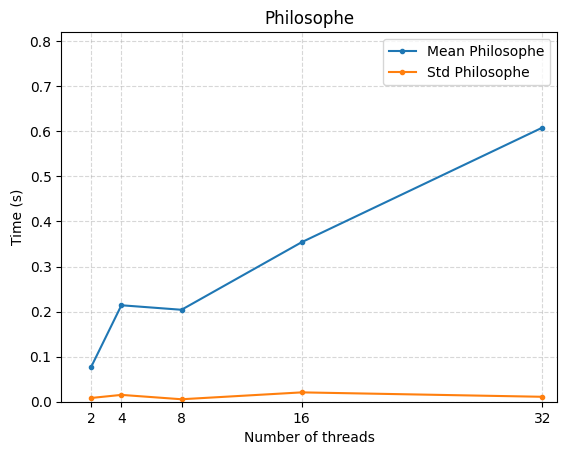
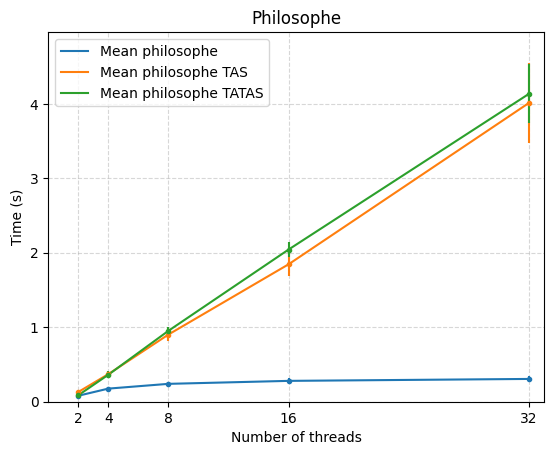
Finished plot

diff --git a/plot.py b/plot.py
@@ -3,76 +3,62 @@ import numpy as np
 import pandas as pd
 
 
-num_threads = np.array([2, 4, 8, 16, 32])
 
-data_philosophe = pd.read_csv('csv/philosophe.csv', header=0)
-data_prodcons = pd.read_csv('csv/prodcons.csv', header=0)
-data_readerwriter = pd.read_csv('csv/readerwriter.csv', header=0)
+def plot(plots: list[tuple], num_threads, title, export=False, filename=None, export_type='png', show=True):
+    y_max = 0
+    for data, label in plots:
+        line, = plt.plot(num_threads, data.mean(), label="Mean " + label)
+        plt.errorbar(num_threads, data.mean(), yerr=data.std(), fmt='.', color=line.get_color())
+        if data.mean().max() >= y_max: y_max = data.mean().max()
 
-mean_philosophe = data_philosophe.mean()
-mean_prodcons = data_prodcons.mean()
-mean_readerwriter = data_readerwriter.mean()
-
-std_philosophe = data_philosophe.std()
-std_prodcons = data_prodcons.std()
-std_readerwriter = data_readerwriter.std()
-
-
-def plot(data, num_threads, title, export=False, filename=None, export_type='png', show=True):
-    plt.plot(num_threads, data.mean(), marker='.', label="Mean " + title)
-    plt.plot(num_threads, data.std(), marker='.', label="Std " + title)
     plt.xticks(num_threads)
     plt.xlabel('Number of threads')
     plt.ylabel('Time (s)')
     plt.xlim(0, num_threads.max() + 1)
-    plt.ylim(0, data.max().max() + 0.2)
+    plt.ylim(0, y_max + 0.2*y_max)
     plt.title(title)
     plt.legend()
     plt.grid(linestyle='--', alpha=0.5)
 
     if export:
-        plt.savefig(filename, format=export_type, bbox_inches='tight')
+        plt.savefig("graphs/" + filename + "." + export_type, format=export_type, bbox_inches='tight')
 
     if show:
         plt.show()
 
 
+num_threads = np.array([2, 4, 8, 16, 32])
+
+data_philosophe = pd.read_csv('csv/philosophe.csv', header=0)
+data_philosophe_tas = pd.read_csv('csv/philosophe_tas.csv', header=0)
+data_philosophe_tatas = pd.read_csv('csv/philosophe_tatas.csv', header=0)
+
+data_prodcons = pd.read_csv('csv/prodcons.csv', header=0)
+data_prodcons_tas = pd.read_csv('csv/prodcons_tas.csv', header=0)
+data_prodcons_tatas = pd.read_csv('csv/prodcons_tatas.csv', header=0)
+
+data_readerwriter = pd.read_csv('csv/readerwriter.csv', header=0)
+data_readerwriter_tas = pd.read_csv('csv/readerwriter_tas.csv', header=0)
+data_readerwriter_tatas = pd.read_csv('csv/readerwriter_tatas.csv', header=0)
+
 # Philosophe
-plot(data_philosophe, num_threads, "Philosophe")
+plot([(data_philosophe, "philosophe"), (data_philosophe_tas, "philosophe TAS"), (data_philosophe_tatas, "philosophe TATAS")], 
+     num_threads, "Philosophe", export=True, filename="philosophe", show=True)
 
 # ProdCons
-plot(data_prodcons, num_threads, "ProdCons")
+plot([(data_prodcons, "prod./cons."), (data_prodcons_tas, "prod./cons. TAS"), (data_prodcons_tatas, "prod./cons. TATAS")], 
+     num_threads, "Producer / Consumer", export=True, filename="prodcons", show=True)
 
 # ReaderWriter
-plot(data_readerwriter, num_threads, "ReaderWriter")
+plot([(data_readerwriter, "reader/writer"), (data_readerwriter_tas, "reader/writer TAS"), (data_readerwriter_tatas, "reader/writer TATAS")], 
+     num_threads, "Reader / Writer", export=True, filename="readerwriter", show=True)
 
 
-# Second part
+## TAS & TATAS Performance
+num_threads = np.array([1, 2, 4, 8, 16, 32])
 
 data_tas = pd.read_csv('csv/test_and_set_perf.csv', header=0)
 data_tatas = pd.read_csv('csv/test_and_test_and_set_perf.csv', header=0)
 
-mean_tas = data_tas.mean()
-mean_tatas = data_tatas.mean()
-
-std_tas = data_tas.std()
-std_tatas = data_tatas.std()
-
-num_threads = np.array([1, 2, 4, 8, 16, 32])
-
-# Test and Set vs. Test and Test and Set
-plt.plot(num_threads, mean_tas, marker='.', label="Mean test_and_set")
-plt.plot(num_threads, std_tas, marker='.', label="Std test_and_set")
-
-plt.plot(num_threads, mean_tatas, marker='.', label="Mean test_and_test_and_set")
-plt.plot(num_threads, std_tatas, marker='.', label="Std test_and_test_and_set")
-
-plt.xticks(num_threads)
-plt.xlabel('Number of threads')
-plt.ylabel('Time (s)')
-plt.xlim(0, num_threads.max() + 1)
-plt.ylim(0, max(data_tas.max().max(), data_tatas.max().max()) + 0.2)
-plt.title("Test and Set Vs. Test and Test and Set")
-plt.legend()
-plt.grid(linestyle='--', alpha=0.5)
-plt.show()
+plot([(data_tas, "test & set"), (data_tatas, "test & test & set")], 
+     num_threads, "TAS Vs. TATAS", export=True, filename="tas_and_tatas", show=True)

diff --git a/src/readerwriter_tatas.c b/src/readerwriter_tatas.c
@@ -2,7 +2,7 @@
 #include "stdlib.h"
 #include "stdbool.h"
 #include "pthread.h"
-#include "../include/sem_tas.h"
+#include "../include/sem_tatas.h"
 #include "../include/test_and_set.h"
 #include "unistd.h"
 #include "getopt.h"
@@ -10,7 +10,7 @@
 #define NUM_WRITE 640
 #define NUM_READ 2540
 
-sem_tas_t db;   // Protects access to the database
+sem_tatas_t db;   // Protects access to the database
 Mutex_t mutex;  // Protects access to the readercount
 int readercount = 0;
 
@@ -19,43 +19,43 @@ int count_read = 0; // Number of reads done so far
 
 void writer(void) {
     while(true) {
-        sem_tas_wait(&db);
+        sem_tatas_wait(&db);
         // section critique
         if (count_write >= NUM_WRITE) {
-            sem_tas_post(&db);
+            sem_tatas_post(&db);
             break;
         }
         count_write++;
 
         for (int i=0; i<10000; i++); // Simulate a slow writer
-        sem_tas_post(&db);
+        sem_tatas_post(&db);
     }
 }
 
 void reader(void) {
     while(true) {
-        lock_TAS(&mutex);
+        lock_TATAS(&mutex);
         if (count_read >= NUM_READ) {
-            unlock_TAS(&mutex);
+            unlock_TATAS(&mutex);
             break;
         }
         count_read++;
 
         readercount++;
         if (readercount == 1) {
-            sem_tas_wait(&db);
+            sem_tatas_wait(&db);
         }
 
         for (int i=0; i<10000; i++); // Simulate a slow reader
-        unlock_TAS(&mutex);
+        unlock_TATAS(&mutex);
 
 
-        lock_TAS(&mutex);
+        lock_TATAS(&mutex);
         readercount--;
         if (readercount == 0) {
-            sem_tas_post(&db);
+            sem_tatas_post(&db);
         }
-        unlock_TAS(&mutex);
+        unlock_TATAS(&mutex);
     }
 }
 
@@ -83,7 +83,7 @@ int main(int argc, char **argv) {
     pthread_t threads[n_writer+n_reader];
     int err;
 
-    sem_tas_init(&db, 1);
+    sem_tatas_init(&db, 1);
     mutex = 0;
 
     for (int i = 0; i < n_writer; i++) {
@@ -106,7 +106,7 @@ int main(int argc, char **argv) {
         pthread_join(threads[i], NULL);
     }
 
-    sem_tas_destroy(&db);
+    sem_tatas_destroy(&db);
 
     return 0;
 }

diff --git a/src/sem_tatas.c b/src/sem_tatas.c
@@ -2,24 +2,32 @@
 
 void sem_tatas_init(sem_tatas_t* sem, int value) {
     sem->value = value;
-    sem->mutex_tatas = 0;
+    sem->mutex_tatas = malloc(sizeof(Mutex_t));
+    *(sem->mutex_tatas) = 0;
+}
+
+void sem_tatas_destroy(sem_tatas_t* sem) {
+    free(sem->mutex_tatas);
 }
 
 void sem_tatas_wait(sem_tatas_t* sem) {
-    lock_TATAS(&(sem->mutex_tatas));
-    sem->value--;
+    lock_TATAS(sem->mutex_tatas);
     int tmp = sem->value;
-    unlock_TATAS(&(sem->mutex_tatas));
+    unlock_TATAS(sem->mutex_tatas);
 
-    while (tmp <= 0) {
-        lock_TATAS(&(sem->mutex_tatas));
+    while (tmp == 0) {
+        lock_TATAS(sem->mutex_tatas);
         tmp = sem->value;
-        unlock_TATAS(&(sem->mutex_tatas));
+        unlock_TATAS(sem->mutex_tatas);
     }
+
+    lock_TATAS(sem->mutex_tatas);
+    sem->value--;
+    unlock_TATAS(sem->mutex_tatas);
 }
 
 void sem_tatas_post(sem_tatas_t* sem) {
-    lock_TATAS(&(sem->mutex_tatas));
+    lock_TATAS(sem->mutex_tatas);
     sem->value++;
-    unlock_TATAS(&(sem->mutex_tatas));
+    unlock_TATAS(sem->mutex_tatas);
 }

diff --git a/src/sem_tas.c b/src/sem_tas.c
@@ -3,24 +3,32 @@
 
 void sem_tas_init(sem_tas_t* sem, int value) {
     sem->value = value;
-    sem->mutex_tas = 0;
+    sem->mutex_tas = malloc(sizeof(Mutex_t));
+    *(sem->mutex_tas) = 0;
+}
+
+void sem_tas_destroy(sem_tas_t* sem) {
+    free(sem->mutex_tas);
 }
 
 void sem_tas_wait(sem_tas_t* sem) {
-    lock_TAS(&(sem->mutex_tas));
-    sem->value--;
+    lock_TAS(sem->mutex_tas);
     int tmp = sem->value;
-    unlock_TAS(&(sem->mutex_tas));
+    unlock_TAS(sem->mutex_tas);
 
-    while (tmp <= 0) {
-        lock_TAS(&(sem->mutex_tas));
+    while (tmp == 0) {
+        lock_TAS(sem->mutex_tas);
         tmp = sem->value;
-        unlock_TAS(&(sem->mutex_tas));
+        unlock_TAS(sem->mutex_tas);
     }
+
+    lock_TAS(sem->mutex_tas);
+    sem->value--;
+    unlock_TAS(sem->mutex_tas);
 }
 
 void sem_tas_post(sem_tas_t* sem) {
-    lock_TAS(&(sem->mutex_tas));
+    lock_TAS(sem->mutex_tas);
     sem->value++;
-    unlock_TAS(&(sem->mutex_tas));
+    unlock_TAS(sem->mutex_tas);
 }

diff --git a/include/sem_tatas.h b/include/sem_tatas.h
@@ -3,11 +3,12 @@
 #include "test_and_test_and_set.h"
 
 typedef struct {
-    int value;
-    Mutex_t mutex_tatas;
+    volatile int value;
+    Mutex_t* mutex_tatas;
 } sem_tatas_t;
 
 
 void sem_tatas_init(sem_tatas_t* sem, int value);
+void sem_tatas_destroy(sem_tatas_t* sem);
 void sem_tatas_wait(sem_tatas_t* sem);
 void sem_tatas_post(sem_tatas_t* sem);

diff --git a/include/sem_tas.h b/include/sem_tas.h
@@ -3,10 +3,11 @@
 #include "test_and_set.h"
 
 typedef struct {
-    int value;
-    Mutex_t mutex_tas;
+    volatile int value;
+    Mutex_t* mutex_tas;
 } sem_tas_t;
 
 void sem_tas_init(sem_tas_t* sem, int value);
+void sem_tas_destroy(sem_tas_t* sem);
 void sem_tas_wait(sem_tas_t* sem);
 void sem_tas_post(sem_tas_t* sem);

diff --git a/src/prodcons_tatas.c b/src/prodcons_tatas.c
@@ -119,5 +119,8 @@ int main(int argc, char** argv) {
         pthread_join(cons[i], NULL);
     }
 
+    sem_tatas_destroy(&empty);
+    sem_tatas_destroy(&full);
+
     return 0;
 }

diff --git a/src/prodcons_tas.c b/src/prodcons_tas.c
@@ -119,5 +119,8 @@ int main(int argc, char** argv) {
         pthread_join(cons[i], NULL);
     }
 
+    sem_tas_destroy(&empty);
+    sem_tas_destroy(&full);
+
     return 0;
 }
